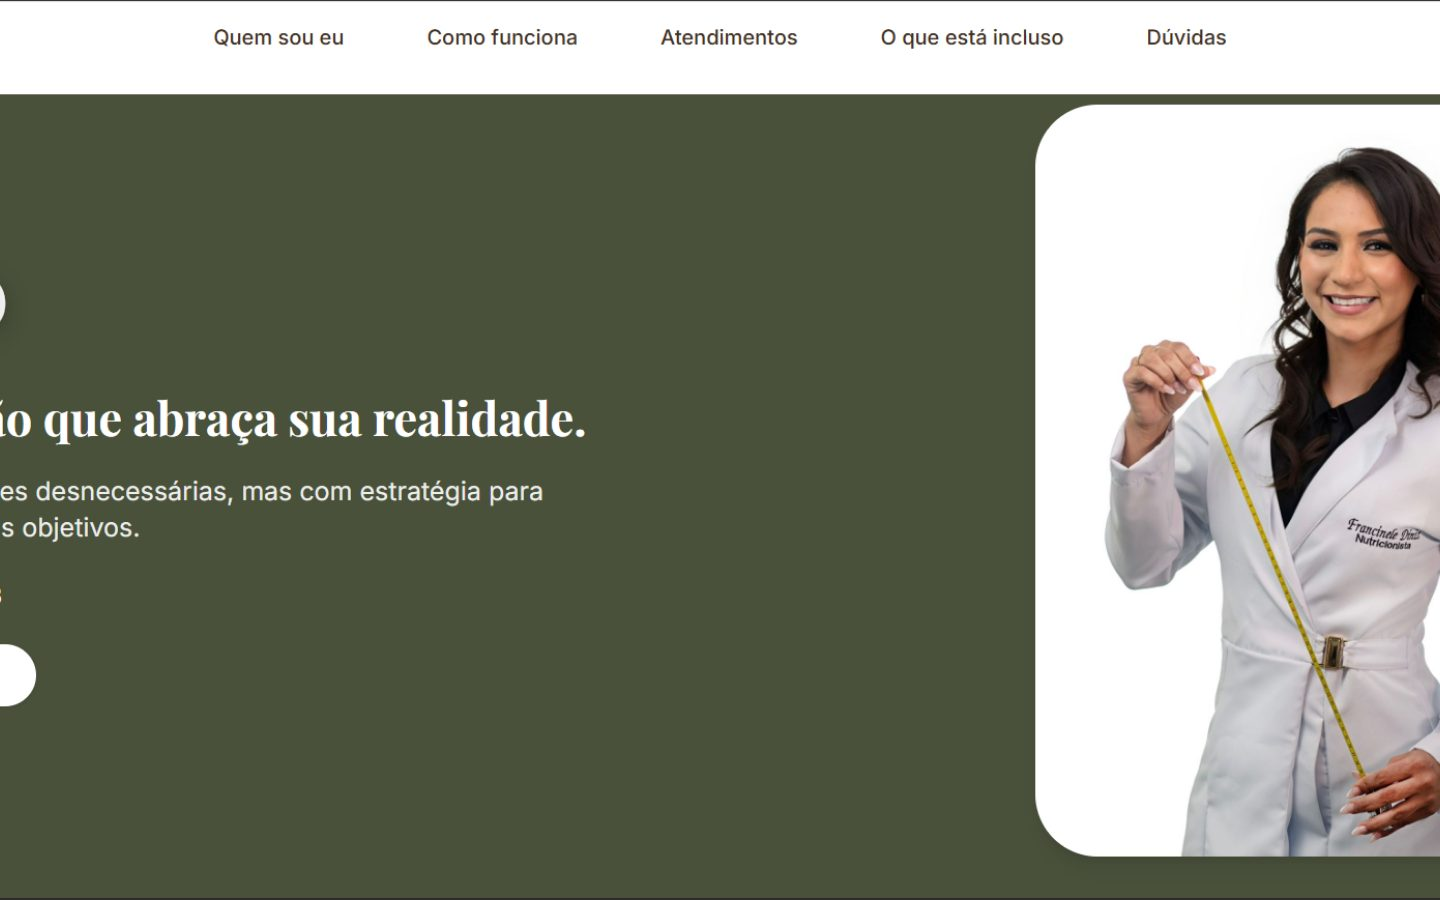
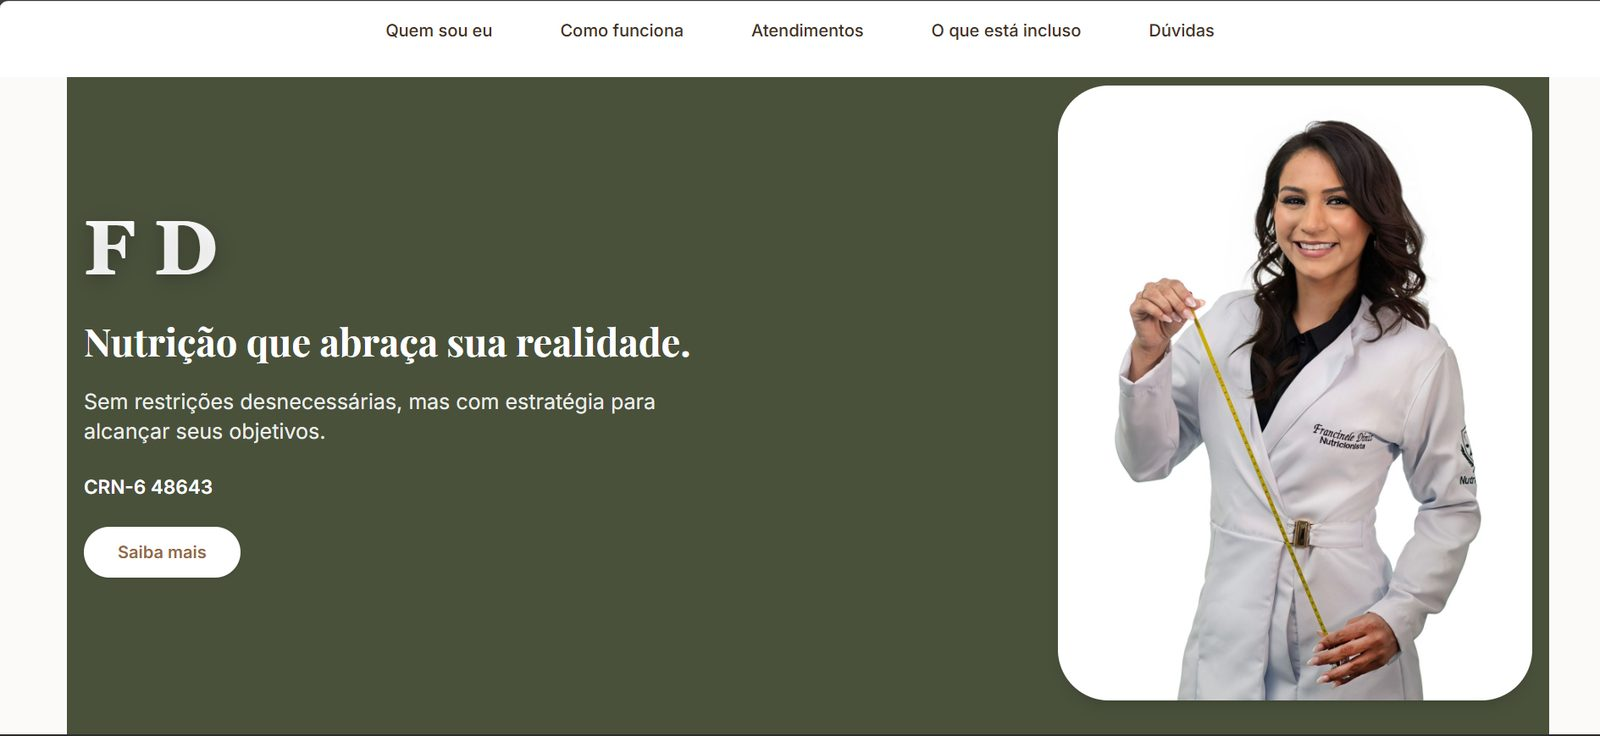
Todos os projetos no formato de estudo de caso (#5)
- Sapcana, Vênus, Nutritiva, Francinele e NetFit AI passam a usar o mesmo
  layout em destaque do PHE e do Fernando, alternando imagem e texto
- Cada projeto ganha destaques e papel desempenhado
- Capturas reexportadas na proporção original, sem cortes laterais
- Cada card anima individualmente ao entrar na tela

Claude-Session: https://claude.ai/code/session_01NhZoaXiT8Pf8D6oekYvixX

Changed region(s): [[0.6562, 0.0938, 1.0, 1.0], [0.0, 0.0938, 0.4375, 1.0], [0.125, 0.0312, 0.8438, 0.0625]]

diff --git a/src/components/Projects.tsx b/src/components/Projects.tsx
@@ -2,7 +2,9 @@ import { motion, useMotionTemplate, useMotionValue } from "framer-motion";
 import { ArrowUpRight, Check, Lock } from "lucide-react";
 import SectionHeading from "@/components/SectionHeading";
 import { featuredProjects, projects, type Project } from "@/data/portfolio";
-import { cardReveal, staggerContainer, viewportOnce } from "@/lib/motion";
+
+const allProjects = [...featuredProjects, ...projects];
+import { cardReveal, viewportOnce } from "@/lib/motion";
 
 /* Browser-window frame around a project screenshot */
 const BrowserFrame = ({ project }: { project: Project }) => (
@@ -15,19 +17,22 @@ const BrowserFrame = ({ project }: { project: Project }) => (
         {project.demo ? project.demo.replace(/^https?:\/\//, "").replace(/\/$/, "") : project.category}
       </span>
     </div>
-    <div className="relative aspect-[16/10] overflow-hidden">
-      {project.image ? (
+    {project.image ? (
+      <div className="relative overflow-hidden">
+        {/* Screenshots keep their natural aspect ratio so nothing gets cropped */}
         <img
           src={project.image}
           alt={`Captura de tela do projeto ${project.title}`}
           loading="lazy"
           decoding="async"
-          className="h-full w-full object-cover object-top transition-transform duration-[1.2s] ease-out group-hover:scale-[1.04]"
+          className="block h-auto w-full transition-transform duration-[1.2s] ease-out group-hover:scale-[1.03]"
         />
-      ) : (
+      </div>
+    ) : (
+      <div className="relative aspect-[16/10] overflow-hidden">
         <DashboardArt />
-      )}
-    </div>
+      </div>
+    )}
   </div>
 );
 
@@ -86,6 +91,9 @@ const SpotlightCard = ({ children, className = "" }: { children: React.ReactNode
   return (
     <motion.article
       variants={cardReveal}
+      initial="hidden"
+      whileInView="visible"
+      viewport={viewportOnce}
       onMouseMove={(e) => {
         const r = e.currentTarget.getBoundingClientRect();
         x.set(e.clientX - r.left);
@@ -110,9 +118,10 @@ const FeaturedProject = ({ project, index }: { project: Project; index: number }
 
       <div>
         <div className="flex flex-wrap items-center gap-3">
-          <span className="font-mono text-xs text-muted-foreground">0{index + 1}</span>
+          <span className="font-mono text-xs text-muted-foreground">{String(index + 1).padStart(2, "0")}</span>
           <span className="h-px w-8 bg-border" />
           <span className="font-mono text-xs text-muted-foreground">{project.category}</span>
+          <span className="font-mono text-xs text-muted-foreground/60">{project.year}</span>
           {project.status && (
             <span className="inline-flex items-center gap-1.5 rounded-full border border-emerald-500/30 bg-emerald-500/10 px-2 py-0.5 text-[11px] text-emerald-300">
               <span className="h-1.5 w-1.5 rounded-full bg-emerald-400" />
@@ -155,28 +164,6 @@ const FeaturedProject = ({ project, index }: { project: Project; index: number }
   </SpotlightCard>
 );
 
-const ProjectCard = ({ project }: { project: Project }) => (
-  <SpotlightCard className="flex h-full flex-col p-4 sm:p-5">
-    <BrowserFrame project={project} />
-    <div className="flex flex-1 flex-col px-1 pt-5">
-      <div className="flex items-center justify-between gap-3">
-        <p className="font-mono text-[11px] text-muted-foreground">{project.category}</p>
-        <p className="font-mono text-[11px] text-muted-foreground">{project.year}</p>
-      </div>
-      <h3 className="mt-2 text-xl">{project.title}</h3>
-      <p className="mt-2 text-sm leading-relaxed text-muted-foreground">{project.summary}</p>
-      <div className="mt-4 flex flex-wrap gap-1.5">
-        {project.tech.map((t) => (
-          <span key={t} className="chip">{t}</span>
-        ))}
-      </div>
-      <div className="mt-auto pt-6">
-        <ProjectLink project={project} />
-      </div>
-    </div>
-  </SpotlightCard>
-);
-
 const Projects = () => (
   <section id="projetos" className="py-24 sm:py-32">
     <div className="container mx-auto">
@@ -186,29 +173,11 @@ const Projects = () => (
         description="Sistemas e sites em uso por instituições, empresas e profissionais — escolhidos pelo problema que resolvem, não só pela aparência."
       />
 
-      <motion.div
-        className="mt-16 space-y-6"
-        variants={staggerContainer}
-        initial="hidden"
-        whileInView="visible"
-        viewport={viewportOnce}
-      >
-        {featuredProjects.map((p, i) => (
+      <div className="mt-16 space-y-6">
+        {allProjects.map((p, i) => (
           <FeaturedProject key={p.slug} project={p} index={i} />
         ))}
-      </motion.div>
-
-      <motion.div
-        className="mt-6 grid gap-6 md:grid-cols-2 lg:grid-cols-3"
-        variants={staggerContainer}
-        initial="hidden"
-        whileInView="visible"
-        viewport={viewportOnce}
-      >
-        {projects.map((p) => (
-          <ProjectCard key={p.slug} project={p} />
-        ))}
-      </motion.div>
+      </div>
     </div>
   </section>
 );

diff --git a/src/data/portfolio.ts b/src/data/portfolio.ts
@@ -67,7 +67,13 @@ export const projects: Project[] = [
     category: "Dashboard de BI · Setor sucroenergético",
     year: "2026",
     summary:
-      "Dashboard de produção para usina: importa planilhas quinzenais, organiza os dados em modelo dimensional e acompanha cana processada, açúcar e etanol por safra e unidade.",
+      "Dashboard de produção para usina: importa os relatórios quinzenais, organiza os dados em modelo dimensional e acompanha cana processada, açúcar e etanol por safra e unidade.",
+    highlights: [
+      "Upload de relatórios em PDF com extração automática dos dados via Supabase Edge Functions",
+      "Modelagem dimensional com tabelas de fato e dimensões (safra, período e unidade produtora)",
+      "Indicadores acumulados de cana, açúcar e etanol com gráficos de evolução por período",
+    ],
+    role: "Modelagem de dados, back-end serverless e dashboard.",
     tech: ["React", "TypeScript", "Supabase", "PostgreSQL", "Recharts"],
     confidential: true,
   },
@@ -78,6 +84,12 @@ export const projects: Project[] = [
     year: "2025",
     summary:
       "Catálogo com carrinho de compras em que o pedido chega pronto no WhatsApp da loja, eliminando atendimento manual item a item.",
+    highlights: [
+      "Catálogo de produtos com escolha de sabores e variações",
+      "Carrinho com barra flutuante e resumo do pedido",
+      "Checkout com dados de entrega que gera a mensagem do pedido formatada para o WhatsApp",
+    ],
+    role: "Desenvolvimento do front-end e do fluxo de pedidos.",
     image: "/images/venus-suplementos.jpg",
     tech: ["React", "TypeScript", "Tailwind", "shadcn/ui"],
     demo: "https://venus-suplementos.vercel.app/",
@@ -89,6 +101,12 @@ export const projects: Project[] = [
     year: "2026",
     summary:
       "Presença digital de uma empresa de engenharia que transforma bioeconomia em infraestrutura industrial.",
+    highlights: [
+      "Comunicação institucional das frentes de P&D, bioprocessos e escala industrial",
+      "Chamadas para contato comercial e apresentação das áreas de atuação",
+      "Site multilíngue em cinco idiomas: português, inglês, alemão, espanhol e chinês",
+    ],
+    role: "Desenvolvimento e publicação do site.",
     image: "/images/nutritiva.jpg",
     tech: ["React", "TypeScript", "Tailwind", "shadcn/ui"],
     demo: "https://anutritiva.com.br/",
@@ -100,6 +118,12 @@ export const projects: Project[] = [
     year: "2025",
     summary:
       "Página de captação para nutricionista com serviços, processo de atendimento, planos e dúvidas frequentes.",
+    highlights: [
+      "Seções de serviços, como funciona o atendimento e o que está incluso",
+      "Perguntas frequentes para reduzir dúvidas antes do contato",
+      "Layout responsivo com apresentação da profissional e do registro no CRN",
+    ],
+    role: "Desenvolvimento e publicação da página.",
     image: "/images/francinele-nutricionista.jpg",
     tech: ["React", "TypeScript", "Tailwind"],
     demo: "https://francinele-nutricionista.vercel.app/",
@@ -111,6 +135,12 @@ export const projects: Project[] = [
     year: "2025",
     summary:
       "Landing page de um aplicativo de saúde com assistente de IA, com foco em apresentação de funcionalidades e conversão.",
+    highlights: [
+      "Apresentação do app que monta treinos e dietas com ajuda de inteligência artificial",
+      "Estrutura de conversão com chamada principal para iniciar a jornada no app",
+      "Visual escuro alinhado à identidade do produto",
+    ],
+    role: "Desenvolvimento da landing page.",
     image: "/images/netfit-ai.jpg",
     tech: ["React", "Vite", "TypeScript", "Tailwind"],
     demo: "https://netfit-ia.vercel.app/",
